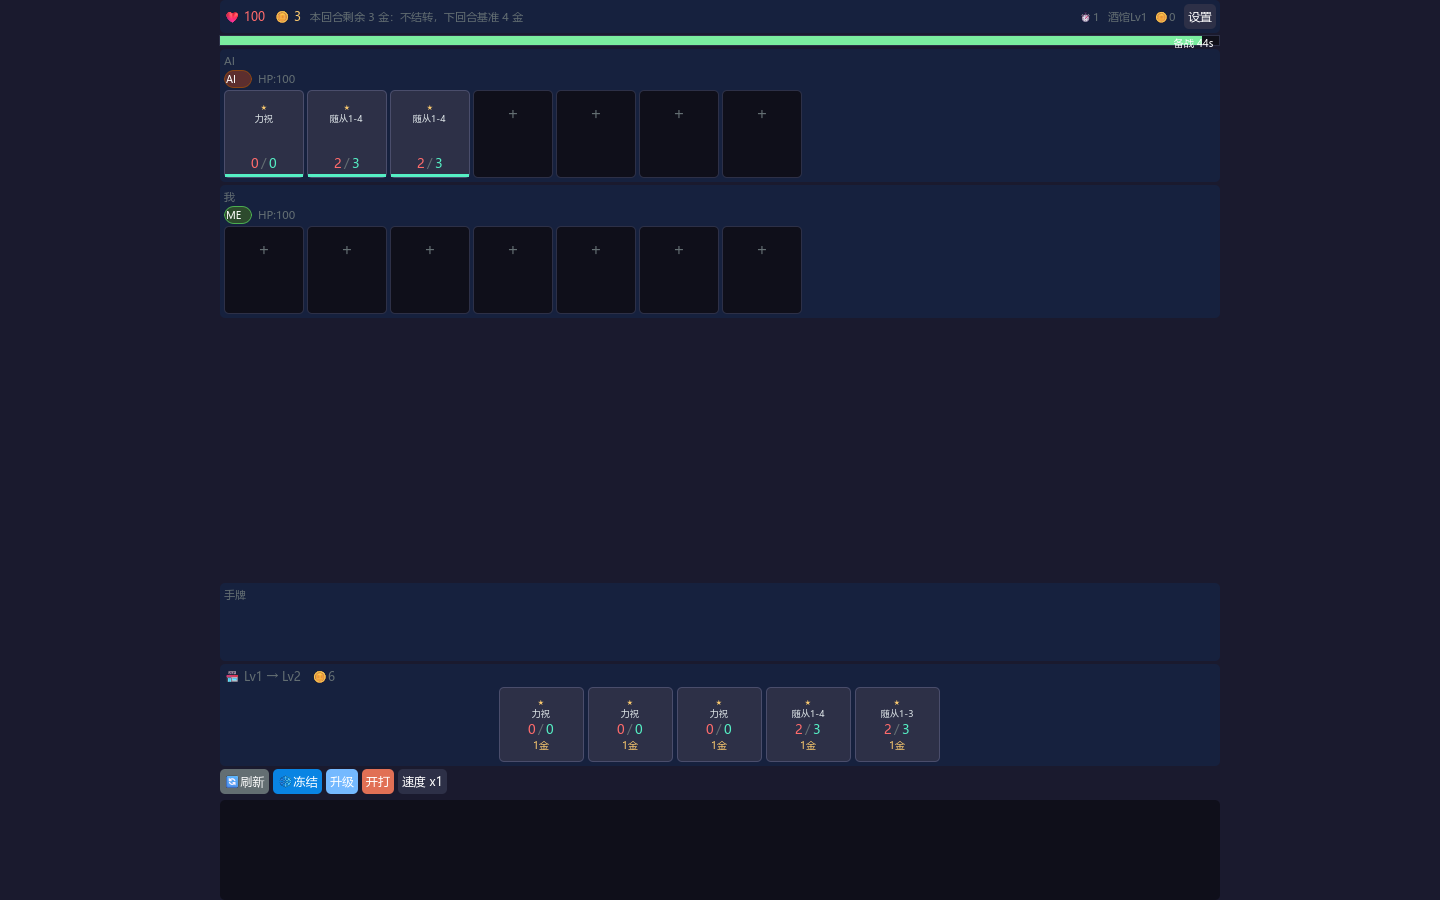
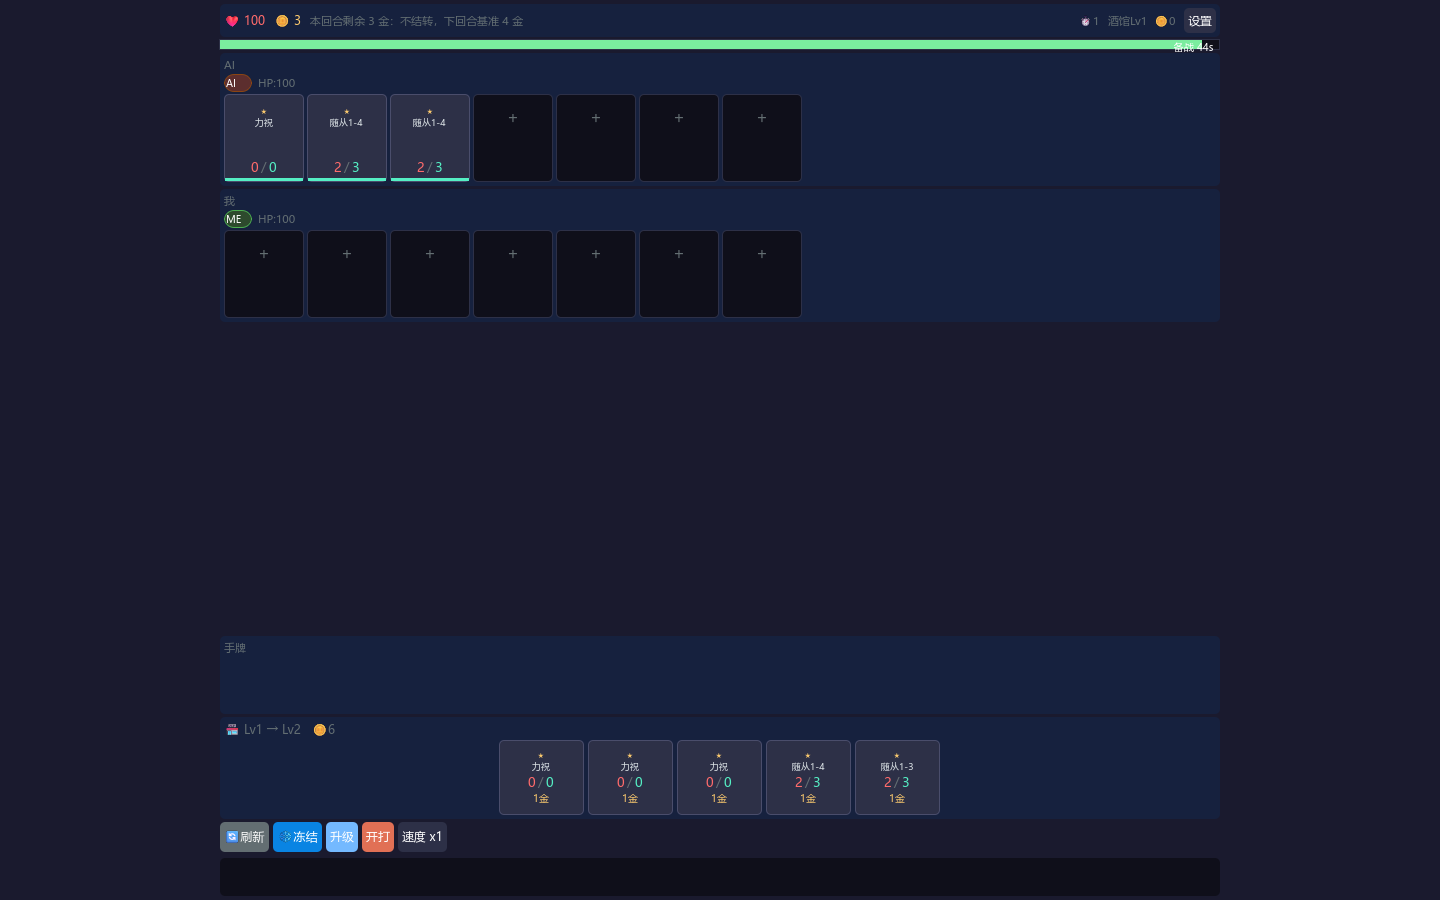
P3-5b: coordinate-level alignment with original layout + side-by-side compare tool
- app padding 4px, max width 1000, action buttons 30px, log 36px, compact settings button
- layout now matches original: hand/hop y within 4px, act y exact, log y within 2px
- add _diag_sac/compare_ui.cjs (dumps both sides' rects + builds docs/compare_ui.png)
- note: model cannot view images; alignment verified by rendered coordinates and ordering assertions

diff --git a/docs/compare_ui.html b/docs/compare_ui.html
@@ -1,0 +1,12 @@
+<!doctype html><meta charset="utf-8"><body style="margin:0;background:#0f0f1a;font-family:'Segoe UI',sans-serif;padding:10px">
+<div style="display:flex;gap:10px">
+  <div style="flex:1">
+    <div style="color:#fdcb6e;font-size:13px;font-weight:700;margin-bottom:6px">原版 Web（localhost:8080）</div>
+    <img src="file:///C:/Users/李泽文/Documents/Codex/2026-07-26/xian/lushi-godot/docs/web_prep.png" style="width:100%;display:block;border:1px solid #2d3047">
+  </div>
+  <div style="flex:1">
+    <div style="color:#7bed9f;font-size:13px;font-weight:700;margin-bottom:6px">Godot 版（按上方 CSS 还原）</div>
+    <img src="file:///C:/Users/李泽文/Documents/Codex/2026-07-26/xian/lushi-godot/docs/prep_view.png" style="width:100%;display:block;border:1px solid #2d3047">
+  </div>
+</div>
+</body>

diff --git a/README.md b/README.md
@@ -262,3 +262,20 @@ lushi-godot/
 - 倒计时条：底槽 + 绿色填充，剩余 ≤10s 转红（对应原版 #rope 与燃烧告警）
 
 验证：新增 --selftest 布局核对（打印各块坐标 + 顺序/不重叠检查，当前通过）；截图 docs/prep_view.png
+
+## 更新（P3-5b · 坐标级对齐）
+
+按原版实际渲染坐标继续对齐（Godot vs Web，1440×900）：
+| 区块 | 原版 Web | Godot |
+|---|---|---|
+| 顶栏 | y=4 h=29 | y=4 h=33 |
+| 战场起点 | y=49 | y=53 |
+| 手牌 | y=640 h=79 | y=636 h=78 |
+| 商店 | y=721 h=101 | y=717 h=102 |
+| 操作栏 | y=822 h=32 | y=822 h=30 |
+| 日志 | y=856 h=40 | y=858 h=38 |
+| 内容宽 | 992（x=224） | 1000（x=220） |
+
+- 外边距 4px、面板最大宽 1000、按钮高 30、日志高 ~36 全部按原版数值设定
+- 对照工具：_diag_sac/compare_ui.cjs（同时输出两端坐标 + 生成并排对照图 docs/compare_ui.png）
+- 说明：模型无法直接查看图片，布局核对以"两端渲染坐标 + 顺序/不重叠断言"为准（见 prep_view.gd 的 _dump_layout）
